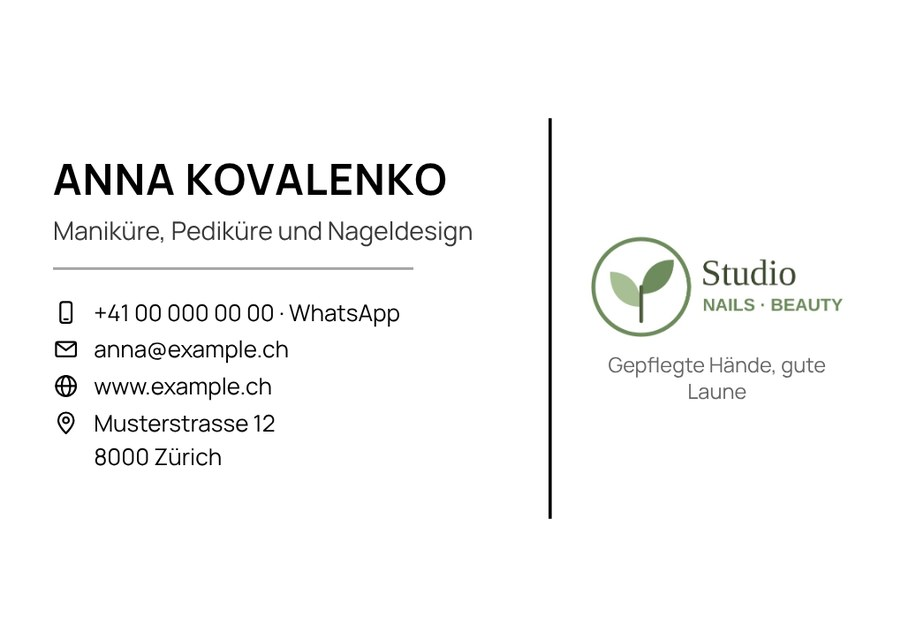
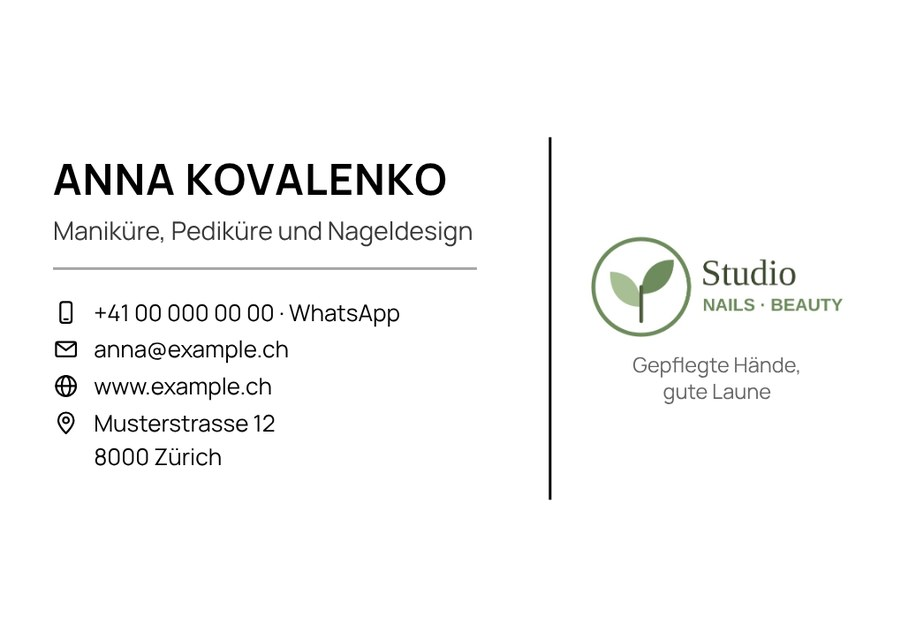
Визитка для печати: доработка вида — ровные переносы, линии, QR и слоган с длинными контактами, оборот в том же виде
Claude-Session: https://claude.ai/code/session_01BC59S8ubwgnF5GR56thysM

diff --git a/instrumenty/vizitka/index.html b/instrumenty/vizitka/index.html
@@ -386,13 +386,14 @@ const perSheet = d => { const [w, h] = dims(d); return Math.floor(190 / w) * Mat
 /* ---------- текст: замер и перенос (Manrope или Forum), с разрядкой ---------- */
 const mc = document.createElement('canvas').getContext('2d');
 function tw(s, fn, size, cs){ s = String(s); mc.font = fn === 'f' ? `400 ${size}px Forum` : `${fn === 'b' ? 700 : 400} ${size}px Manrope`; return mc.measureText(s).width * PT + (cs ? cs * Math.max(0, [...s].length - 1) : 0); }
-/* перенос по пробелам и после дефиса (длинная двойная фамилия: «Konstantinopolskaya-Wiederkehr») */
+/* перенос по пробелам; после дефиса — только если слово целиком не помещается (длинная двойная фамилия: «Konstantinopolskaya-Wiederkehr»), «по-украински» не рвём */
 function wrap(s, fn, size, w, max, cs){
-  const toks = []; String(s || '').split(/\s+/).filter(Boolean).forEach(wd => wd.replace(/-(?=[^-])/g, '-\u0001').split('\u0001').forEach((t, i) => toks.push([t, i === 0])));
+  const toks = []; String(s || '').split(/\s+/).filter(Boolean).forEach(wd => (tw(wd, fn, size, cs) <= w ? [wd] : wd.replace(/-(?=[^-])/g, '-\u0001').split('\u0001')).forEach((t, i) => toks.push([t, i === 0])));
   const out = []; let line = '';
   toks.forEach(([wd, sp]) => { const t = line ? line + (sp ? ' ' : '') + wd : wd; if (tw(t, fn, size, cs) <= w || !line) line = t; else { out.push(line); line = wd; } });
   if (line) out.push(line);
-  if (max && out.length > max) { const rest = out.slice(max - 1).join(' '); out.length = max - 1; let r = rest; while (r.length > 1 && tw(r + '…', fn, size, cs) > w) r = r.slice(0, -1); out.push(r.trim() + '…'); }
+  for (let i = 0; i < out.length; i++) out[i] = out[i].replace(/\s+[·|]$/, '').replace(/^[·|]\s+/, '');   // разделитель «·» не висит в конце или начале строки
+  if (max && out.length > max) { const rest = out.slice(max - 1).reduce((a, l) => a ? a + (/-$/.test(a) ? '' : ' ') + l : l, ''); out.length = max - 1; let r = rest; while (r.length > 1 && tw(r + '…', fn, size, cs) > w) r = r.slice(0, -1); out.push(r.trim() + '…'); }
   return out;
 }
 /* текст на визитку; разрядку движок рисует только от левого края, поэтому центр и правый край считаем сами */
@@ -405,11 +406,16 @@ function text(P, s, o){
   let sz = base, lines = [str];
   while (true) { lines = tw(str, fn, sz, cs(sz)) <= o.w ? [str] : wrap(str, fn, sz, o.w, 0, cs(sz)); if ((lines.length <= maxL && lines.every(l => tw(l, fn, sz, cs(sz)) <= o.w)) || sz <= min) break; sz -= 0.25; }
   if (lines.length > maxL) lines = wrap(str, fn, sz, o.w, maxL, cs(sz));
+  /* ровные строки: при переносе строки примерно одной длины (как text-wrap: balance), без одинокого слова на второй строке */
+  else if (lines.length > 1 && o.balance !== false) {
+    const n = lines.length, fitW = ww => { const L2 = wrap(str, fn, sz, ww, 0, cs(sz)); return L2.length <= n && L2.every(l => tw(l, fn, sz, cs(sz)) <= ww + 0.01) ? L2 : null; };
+    let lo = 0, hi = o.w; for (let it = 0; it < 12; it++) { const mid = (lo + hi) / 2, r = fitW(mid); if (r) { hi = mid; lines = r; } else lo = mid; }
+  }
   if (o.draw && lines.some(l => tw(l, fn, sz, cs(sz)) > o.w + 0.2)) P.wOver = true;   // слово не помещается даже мелко — покажем предупреждение
   const ax = o.align === 'center' ? o.x + o.w / 2 : o.align === 'right' ? o.x + o.w : o.x;
   let y = o.y + sz * PT * 0.76;
   lines.forEach((l, i) => { if (o.draw) T(P, l, ax, y, sz, fn, o.color || INK, o.align, cs(sz)); if (i < lines.length - 1) y += sz * PT * (o.lh || 1.18); });
-  o.out = {size: sz, w: Math.max(...lines.map(l => tw(l, fn, sz, cs(sz)))), base: y};
+  o.out = {size: sz, w: Math.max(...lines.map(l => tw(l, fn, sz, cs(sz)))), lastW: tw(lines[lines.length - 1], fn, sz, cs(sz)), base: y};
   return y + sz * PT * 0.3;
 }
 
@@ -418,7 +424,7 @@ const clean = s => String(s == null ? '' : s).trim();
 const handle = s => clean(s).replace(/^https?:\/\/(www\.)?(instagram\.com|t\.me|telegram\.me)\//i, '').replace(/^@+/, '').replace(/[/?#].*$/, '');
 const site = s => clean(s).replace(/^https?:\/\//i, '').replace(/\/+$/, '');
 const hfn = d => d.font === 'sans' ? 'b' : 'f';
-function nameOf(d, P){ const n = clean(d.f.name); return n ? {s: n, c: INK} : {s: P.preview ? 'Имя Фамилия' : '', c: GHOST}; }
+function nameOf(d, P){ const n = clean(d.f.name); return n ? {s: n, c: INK} : {s: P.preview && !d.noGhost ? 'Имя Фамилия' : '', c: GHOST}; }
 /* контакты строками: {k — вид, v — строки}; без подписей Telegram пишем ссылкой, чтобы его не спутать с Instagram */
 function rows(d, st){
   const f = d.f, out = [];
@@ -486,7 +492,7 @@ function cblock(P, d, o){
   const L = LBL[d.lbl] || LBL.de;
   const geo = sz => {
     const em = sz * PT, lh = em * 1.45, ic = st === 'circle' ? Math.max(3.3, em * 1.75) : st === 'icon' ? em * 1.12 : 0;
-    const lead = ic ? ic + (st === 'circle' ? 1.7 : 1.4) : st === 'text' ? Math.max(0, ...R.map(r => r.k !== 'addr' ? tw(L[r.k], 'r', sz * 0.88) : 0)) + 2.2 : 0;
+    const lead = ic ? ic + (st === 'circle' ? 1.7 : 1.4) : st === 'text' ? Math.max(0, ...R.map(r => tw(L[r.k], 'r', sz * 0.88))) + 2.2 : 0;
     const vw = Math.max(...R.map(r => Math.max(...r.v.map(s => tw(s, 'r', sz)))));
     const rh = R.map(r => st === 'circle' ? Math.max(ic + 1.3, r.v.length * lh + 0.5) : r.v.length * lh + (st === 'icon' ? 0.3 : 0));
     return {em, lh, ic, lead, w: lead + vw, rh, h: rh.reduce((a, b) => a + b, 0)};
@@ -495,13 +501,13 @@ function cblock(P, d, o){
   while (sz > min && (G.w > o.w || (o.maxH && G.h > o.maxH))) { sz -= 0.2; G = geo(sz); }
   if (!o.draw) return {h: G.h, w: G.w};
   if (G.w > o.w + 0.2) P.wOver = true;
-  const bx = Math.max(o.x, o.align === 'right' ? o.x + o.w - G.w : o.align === 'group' ? o.x + (o.w - G.w) / 2 : o.x);
+  const bx = Math.max(o.x, o.align === 'right' || o.align === 'rblock' ? o.x + o.w - G.w : o.align === 'group' ? o.x + (o.w - G.w) / 2 : o.x);
   let y = o.y;
   R.forEach((r, i) => {
     const rh = G.rh[i], top = y + (rh - r.v.length * G.lh) / 2, cy = st === 'circle' ? y + rh / 2 : top + G.lh / 2;
     if (st === 'circle') { const rr = G.ic / 2, s2 = G.ic * 0.6; P.circle(bx + rr, cy, rr, INK); icon(P, r.k, bx + rr - s2 / 2, cy - s2 / 2, s2, '#FFFFFF'); }
     else if (st === 'icon') icon(P, r.k, bx, cy - G.ic / 2, G.ic, INK);
-    else if (st === 'text' && r.k !== 'addr') T(P, L[r.k], bx, top + G.lh / 2 + 0.36 * G.em, sz * 0.88, 'r', SOFT);
+    else if (st === 'text') T(P, L[r.k], bx, top + G.lh / 2 + 0.36 * G.em, sz * 0.88, 'r', SOFT);
     r.v.forEach((s, j) => {
       const by = top + j * G.lh + G.lh / 2 + 0.36 * G.em;
       if (st === 'none' && o.align === 'right') T(P, s, o.x + o.w, by, sz, 'r', o.col || INK, 'right');
@@ -532,12 +538,13 @@ function brand(P, d, o){
 /* блок человека: имя, чем занимаешься, услуги, языки, тонкая линия, контакты. o {x, y, w, k, draw, align: 'left' | 'group', round, rule, roleBold} → высота */
 function person(P, d, o){
   const fn = hfn(d), nm = nameOf(d, P), al = o.align === 'group' ? 'center' : 'left', base = {x: o.x, w: o.w, k: o.k, draw: o.draw, align: al};
-  let y = o.y;
-  if (nm.s) y = text(P, nm.s, Object.assign({}, base, {y, size: fn === 'f' ? 15 : 11.5, fn, color: nm.c, upper: fn === 'b', csEm: fn === 'b' ? 0.02 : 0, lines: 2, lh: 1.05}));
-  if (clean(d.f.role)) y = text(P, d.f.role, Object.assign({}, base, {y: y + 1.2 * o.k, size: 6.8, fn: o.roleBold ? 'b' : 'r', color: o.roleBold ? INK : MID, lines: 2, lh: 1.25, min: 5.2}));
+  let y = o.y, wMax = 0;
+  const put2 = (s2, oo) => { y = text(P, s2, oo); if (oo.out) wMax = Math.max(wMax, oo.out.w); };
+  if (nm.s) put2(nm.s, Object.assign({}, base, {y, size: fn === 'f' ? 15 : 11.5, fn, color: nm.c, upper: fn === 'b', csEm: fn === 'b' ? 0.02 : 0, lines: 3, lh: 1.05}));
+  if (clean(d.f.role)) put2(d.f.role, Object.assign({}, base, {y: y + 1.2 * o.k, size: 6.8, fn: o.roleBold ? 'b' : 'r', color: o.roleBold ? INK : MID, lines: 2, lh: 1.25, min: 5.2}));
   if (clean(d.f.serv)) y = text(P, d.f.serv, Object.assign({}, base, {y: y + 0.9 * o.k, size: 5.8, color: SOFT, lines: 2, lh: 1.25, min: 4.8}));
   if (langLine(d)) y = text(P, langLine(d), Object.assign({}, base, {y: y + 0.9 * o.k, size: 5.5, color: SOFT, lines: 1, min: 4.6}));
-  if (o.rule) { y += 2 * o.k; if (o.draw) { if (al === 'center') P.line(o.x + o.w / 2 - 5, y, o.x + o.w / 2 + 5, y, RULE, 0.25); else P.line(o.x, y, o.x + Math.min(o.w, 34), y, RULE, 0.25); } y += 2.4 * o.k; } else y += 2.8 * o.k;
+  if (o.rule) { y += 2 * o.k; if (o.draw) { if (al === 'center') P.line(o.x + o.w / 2 - 5, y, o.x + o.w / 2 + 5, y, RULE, 0.25); else P.line(o.x, y, o.x + Math.min(o.w, Math.max(wMax, 12)), y, RULE, 0.25); } y += 2.4 * o.k; } else y += 2.8 * o.k;   // линия длиной с имя
   const c = {x: o.x, y, w: o.w, k: o.k, style: cst(d, o.round), align: o.align === 'group' ? 'group' : 'left'};
   const ch = cblock(P, d, Object.assign({}, c, {draw: false})).h; if (ch && o.draw) cblock(P, d, Object.assign({}, c, {draw: true}));
   return (ch ? y + ch : y - 2.6 * o.k) - o.y;
@@ -552,7 +559,7 @@ function tLine(P, d, X, Y, W, H, k, dr){
     const Lw = W * 0.58, xd = X + Lw + 3.4, Rx = xd + 3.4, Rw = X + W - Rx, q = url ? Math.min(Rw * 0.66, H * 0.44) : 0;
     const pb = {x: X, w: Lw, k, rule: true}, bb = {cx: Rx + Rw / 2, w: Rw, h: H * (q ? 0.34 : 0.6), k, tag: true};
     const ph = person(P, d, Object.assign({y: 0, draw: false}, pb)), bh = brand(P, d, Object.assign({y: 0, draw: false}, bb)), rh = bh + (q ? (bh ? 3.2 : 0) + q : 0);
-    if (dr) { person(P, d, Object.assign({y: vcenter(Y, H, ph), draw: true}, pb)); const ry = vcenter(Y, H, rh); brand(P, d, Object.assign({y: ry, draw: true}, bb)); if (q) qrDraw(P, url, Rx + (Rw - q) / 2, ry + rh - q, q); if (rh) P.line(xd, Y + H * 0.08, xd, Y + H * 0.92, INK, 0.3); }
+    if (dr) { person(P, d, Object.assign({y: vcenter(Y, H, ph), draw: true}, pb)); const ry = vcenter(Y, H, rh); brand(P, d, Object.assign({y: ry, draw: true}, bb)); if (q) qrDraw(P, url, Rx + (Rw - q) / 2, ry + rh - q, q); if (rh) P.line(xd, Y + H * 0.12, xd, Y + H * 0.88, INK, 0.25); }
     return ph <= H && rh <= H;
   }
   const q = url ? Math.min(W * 0.4, H * 0.22) : 0, bb = {cx: X + W / 2, w: W * 0.7, h: H * 0.2, k, tag: true}, pb = {x: X, w: W, k, rule: false, align: 'group'};
@@ -594,35 +601,41 @@ function tQr(P, d, X, Y, W, H, k, dr){
   const url = frontQr(d, P), lg = LG(), wide = isWide(W, H);
   const q = url ? (wide ? Math.min(H * 0.4, 17) : Math.min(W * 0.36, 15)) : 0, lb = !q && lg ? logoBox(lg, wide ? 22 : W * 0.36, wide ? H * 0.3 : 11) : null;
   const cw = q || (lb ? lb.w : 0), ch = q || (lb ? lb.h : 0), nw = wide ? W - (cw ? cw + 4 : 0) : W;
-  const go = draw => {
-    let y = wide ? Y : Y + (ch ? ch + 3.5 * k : 0);
-    if (draw) { if (q) qrDraw(P, url, wide ? X + W - q : X, Y, q); else if (lb) P.img(logoData(d, lg), wide ? X + W - lb.w : X, Y, lb.w, lb.h); }
+  const go = (draw, off) => {
+    const Y0 = Y + off;
+    let y = wide ? Y0 : Y0 + (ch ? ch + 3.5 * k : 0);
+    if (draw) { if (q) qrDraw(P, url, wide ? X + W - q : X, Y0, q); else if (lb) P.img(logoData(d, lg), wide ? X + W - lb.w : X, Y0, lb.w, lb.h); }
     y = splitName(P, d, {x: X, y, w: nw, k, draw});
     const role = clean(d.f.role);
-    if (role) { const o = {x: X, y: y + 1.4 * k, w: nw - 8, k, draw, size: 5.6, color: MID, upper: true, csEm: 0.12, lines: 2, lh: 1.3}; y = text(P, role, o); if (draw && o.out.w + 3 < nw - 2) { const ly = o.out.base - o.out.size * PT * 0.3; P.line(X + o.out.w + 2.4, ly, X + nw - 1, ly, MID, 0.25); } }
+    if (role) { const o = {x: X, y: y + 1.4 * k, w: nw - 8, k, draw, size: 5.6, color: MID, upper: true, csEm: 0.12, lines: 2, lh: 1.3}; y = text(P, role, o); if (draw && o.out.lastW + 7 < nw) { const ly = o.out.base - o.out.size * PT * 0.3; P.line(X + o.out.lastW + 2.4, ly, X + nw - 1, ly, MID, 0.25); } }   // линия — после последней строки
+    if (clean(d.f.note)) y = text(P, d.f.note, {x: X, y: y + 1.2 * k, w: nw, k, draw, size: 5.8, color: MID, lines: 2, lh: 1.3, min: 4.8});
     if (langLine(d)) y = text(P, langLine(d), {x: X, y: y + 1 * k, w: nw, k, draw, size: 5.4, color: SOFT, min: 4.6});
-    y = (wide ? Math.max(y, Y + ch) : y) + 2.8 * k;
-    if (draw) P.line(X, y, X + W, y, INK, 0.3);
+    const st = cst(d);
+    if (!rows(d, st).length) return Math.max(y, wide ? Y0 + ch : y) - Y0;   // без контактов (обратная сторона) — без линии
+    y = (wide ? Math.max(y, Y0 + ch) : y) + 2.8 * k;
+    if (draw) P.line(X, y, X + W, y, INK, 0.25);
     y += 2.8 * k;
-    const st = cst(d), right = ['web', 'ig', 'tg'], hasR = wide && rows(d, st).some(r => right.includes(r.k)), hasL = rows(d, st).some(r => !right.includes(r.k));
+    const right = ['web', 'ig', 'tg'], hasL = rows(d, st).some(r => !right.includes(r.k));
+    const hasR = wide && rows(d, st).some(r => right.includes(r.k)) && cblock(P, d, {x: 0, y: 0, w: W * 0.42, k, style: st, align: 'right', only: right, draw: false}).w <= W * 0.42 + 0.2;   // длинный сайт справа не помещается — все контакты слева
     const cl = {x: X, y, w: hasR ? W * 0.56 : W, k, style: st, skip: hasR ? right : null}, cr = {x: X + W * 0.58, w: W * 0.42, k, style: st, align: 'right', only: right};
     const hl = hasL || !hasR ? cblock(P, d, Object.assign({}, cl, {draw: false})).h : 0, hr = hasR ? cblock(P, d, Object.assign({}, cr, {y: 0, draw: false})).h : 0;
-    if (draw) { if (hl) cblock(P, d, Object.assign({}, cl, {y: wide ? y : Math.max(y, Y + H - hl), draw: true})); if (hr) cblock(P, d, Object.assign({}, cr, {y: Y + H - hr, draw: true})); }   // на вертикальной визитке контакты внизу
-    return Math.max(y + hl, hr ? y + hr : 0) - Y;
+    if (draw) { if (hl) cblock(P, d, Object.assign({}, cl, {y, draw: true})); if (hr) cblock(P, d, Object.assign({}, cr, {y: Y + H - hr, draw: true})); }
+    return Math.max(y + hl, hr ? y + hr : 0) - Y0;
   };
-  const h = go(false); if (dr) go(true);
+  /* вертикальная визитка: весь блок по центру высоты, без пустоты посередине */
+  const h = go(false, 0); if (dr) go(true, wide && rows(d, cst(d)).length ? 0 : Math.max(0, (H - h) / 2));
   return h <= H + 0.2;
 }
 /* 4. Крупный слоган: большая фраза сверху, внизу слева ты, справа «записаться» и контакты */
 function tSlogan(P, d, X, Y, W, H, k, dr){
   const f = d.f, fn = hfn(d), lg = LG(), url = frontQr(d, P), wide = isWide(W, H);
-  const sl = clean(f.tag) || clean(f.firm) || clean(f.role) || (P.preview ? 'Твоя главная фраза' : '');
+  const sl = clean(f.tag) || clean(f.firm) || clean(f.role) || (P.preview && !d.noGhost ? 'Твоя главная фраза' : '');
   const L = d.lbl === 'none' ? null : (LBL[d.lbl] || LBL.de);
   const cq = url ? (wide ? Math.min(H * 0.34, 14) : Math.min(W * 0.34, 13)) : 0, lb = !cq && lg ? logoBox(lg, wide ? 20 : W * 0.4, wide ? H * 0.26 : 10) : null;
   const corner = cq ? {w: cq, h: cq} : lb;
   const nm = nameOf(d, P), so = {size: fn === 'f' ? 17 : 13, fn, lines: 3, lh: 1.1, min: 9};
   const leftItems = (x, y, w, draw) => {
-    if (nm.s) y = text(P, nm.s, {x, y, w, k, draw, size: 7.4, fn: 'b', color: nm.c, min: 5.6});
+    if (nm.s) y = text(P, nm.s, {x, y, w, k, draw, size: 7.4, fn: 'b', color: nm.c, min: 5.6, lines: 2, lh: 1.1});
     if (clean(f.role)) y = text(P, f.role, {x, y: y + 0.8 * k, w, k, draw, size: 6.2, color: MID, lines: 2, lh: 1.25, min: 5});
     if (clean(f.serv)) y = text(P, f.serv, {x, y: y + 0.6 * k, w, k, draw, size: 5.8, color: MID, lines: 2, lh: 1.25, min: 4.8});
     if (langLine(d)) y = text(P, langLine(d), {x, y: y + 0.6 * k, w, k, draw, size: 5.4, color: SOFT, min: 4.6});
@@ -637,13 +650,16 @@ function tSlogan(P, d, X, Y, W, H, k, dr){
     return y + 1 * k + h;
   };
   if (wide) {
-    const sw = W - (corner ? corner.w + 4 : 0) - W * 0.06, lw = W * 0.54, rw = W * 0.44;
+    const sw = W - (corner ? corner.w + 4 : 0) - W * 0.06;
     const sh = text(P, sl, Object.assign({x: X, y: Y, w: sw, k, draw: false}, so)) - Y;
-    const lh = leftItems(X, 0, lw, false), rh = rightItems(X + W - rw, 0, rw, false, 'right'), bh = Math.max(lh, rh);
+    const cw = cblock(P, d, {x: 0, y: 0, w: W * 0.44, k, style: cst(d), align: 'right', only: ['tel', 'mail', 'web', 'ig', 'tg'], size: 6, draw: false}).w, side = cw <= W * 0.44 + 0.2;
+    const lw = side ? W * 0.54 : W, rw = side ? W * 0.44 : W, gap = side ? 0 : 3 * k;
+    const lh = leftItems(X, 0, lw, false), rh = rightItems(side ? X + W - rw : X, 0, rw, false, side ? 'right' : 'left'), bh = side ? Math.max(lh, rh) : lh + gap + rh;
     if (dr) {
       if (sl) text(P, sl, Object.assign({x: X, y: Y, w: sw, k, draw: true, color: clean(f.tag) || clean(f.firm) || clean(f.role) ? INK : GHOST}, so));
       if (cq) qrDraw(P, url, X + W - cq, Y, cq); else if (lb) P.img(logoData(d, lg), X + W - lb.w, Y, lb.w, lb.h);
-      leftItems(X, Y + H - lh, lw, true); rightItems(X + W - rw, Y + H - rh, rw, true, 'right');
+      if (side) { leftItems(X, Y + H - lh, lw, true); rightItems(X + W - rw, Y + H - rh, rw, true, 'right'); }
+      else { leftItems(X, Y + H - bh, lw, true); rightItems(X, Y + H - rh, rw, true, 'left'); }   // длинный e-mail или сайт: контакты под именем, во всю ширину
     }
     return Math.max(sh, corner ? corner.h : 0) + 3 * k + bh <= H;
   }
@@ -673,13 +689,13 @@ function tCenter(P, d, X, Y, W, H, k, dr){
     const rs = R(); if (!rs.length) return 0;
     if (st === 'none') return cblock(P, d, {x: cx - w / 2, y, w, k, draw, style: 'none', align: 'center', size: 6}).h;
     let sz = 6 * k, em, lh, lw, vw;
-    const geo = () => { em = sz * PT; lh = em * 1.45; lw = Math.max(...rs.map(r => st === 'icon' ? em * 1.12 : r.k === 'addr' ? 0 : tw(L[r.k], 'r', sz * 0.9))); vw = Math.max(...rs.map(r => Math.max(...r.v.map(s => tw(s, 'r', sz))))); };
+    const geo = () => { em = sz * PT; lh = em * 1.45; lw = Math.max(...rs.map(r => st === 'icon' ? em * 1.12 : tw(L[r.k], 'r', sz * 0.9))); vw = Math.max(...rs.map(r => Math.max(...r.v.map(s => tw(s, 'r', sz))))); };
     geo(); while (sz > 4.9 && lw + vw + 5 > w) { sz -= 0.2; geo(); }
     const h = rs.reduce((a, r) => a + r.v.length * lh, 0); if (!draw) return h;
     const xr = cx - (lw + vw + 5) / 2 + lw + 2.5; let yy = y;
     P.line(xr, y + lh * 0.12, xr, y + h - lh * 0.12, INK, 0.25);
     rs.forEach(r => { const c = yy + lh / 2;
-      if (st === 'icon') icon(P, r.k, xr - 2.3 - em * 1.12, c - em * 0.56, em * 1.12, INK); else if (r.k !== 'addr') T(P, L[r.k], xr - 2.3, c + 0.36 * em, sz * 0.9, 'r', SOFT, 'right');
+      if (st === 'icon') icon(P, r.k, xr - 2.3 - em * 1.12, c - em * 0.56, em * 1.12, INK); else T(P, L[r.k], xr - 2.3, c + 0.36 * em, sz * 0.9, 'r', SOFT, 'right');
       r.v.forEach((s, j) => T(P, s, xr + 2.3, yy + j * lh + lh / 2 + 0.36 * em, sz, 'r', INK)); yy += r.v.length * lh; });
     return h;
   };
@@ -701,14 +717,19 @@ function tOnlyQr(P, d, X, Y, W, H, k, dr){
   const f = d.f, url = frontQr(d, P), lg = LG(), wide = isWide(W, H), nm = nameOf(d, P);
   const main = clean(f.firm) || nm.s, lines = [[main, 'b', clean(f.firm) ? INK : nm.c]];
   if (clean(f.firm) && clean(f.name)) lines.push([clean(f.name), 'r', MID]);
+  if (clean(f.role) && d.noGhost) lines.push([clean(f.role), 'r', MID, 2]);
+  if (clean(f.note)) lines.push([clean(f.note), 'r', MID, 2]);
   [site(f.web), clean(f.email), clean(f.phone)].filter(Boolean).forEach(s => lines.push([s, 'r', MID]));
   const ls = lines.filter(l => l[0]).slice(0, 4);
   /* строки заглавными вразрядку; длинный e-mail или сайт, который так не помещается, — обычными буквами */
-  const block = (x, y, w, draw, align) => { ls.forEach((l, i) => { const sz = (i ? 5.4 : 6), up = tw(l[0].toUpperCase(), l[1], 4.4 * Math.min(1, k + 0.15), 0.14 * 4.4 * PT) <= w; y = text(P, l[0], {x, y: y + (i ? 1.1 * k : 0), w, k, draw, size: sz, fn: l[1], color: l[2], align, upper: up, csEm: up ? 0.14 : 0, min: 4.4}); }); return y; };
+  let bw = 0;
+  const block = (x, y, w, draw, align) => { bw = 0; ls.forEach((l, i) => { const sz = (i ? 5.4 : 6), up = tw(l[0].toUpperCase(), l[1], 4.4 * Math.min(1, k + 0.15), 0.14 * 4.4 * PT) <= w; const o = {x, y: y + (i ? 1.1 * k : 0), w, k, draw, size: sz, fn: l[1], color: l[2], align, upper: up, csEm: up ? 0.14 : 0, min: 4.4, lines: l[3] || 1, lh: 1.3}; y = text(P, l[0], o); if (o.out) bw = Math.max(bw, o.out.w); }); return y; };
   const slot = (x, y, s, draw) => { if (!draw) return; if (url) qrDraw(P, url, x, y, s); else if (lg) { const lb = logoBox(lg, s, s); P.img(logoData(d, lg), x + (s - lb.w) / 2, y + (s - lb.h) / 2, lb.w, lb.h); } else { const ini = initials(d); if (ini) { P.circle(x + s / 2, y + s / 2, s / 2, null, INK, 0.25); T(P, ini, x + s / 2, y + s / 2 + s * 0.17, s * 1.2, 'f', INK, 'center'); } } };
   if (wide) {
-    const s = Math.min(H * 0.66, W * 0.3) * Math.min(1, k + 0.1), tx = X + s + 6, tw2 = W - s - 6, bh = block(tx, 0, tw2, false, 'left');
-    if (dr) { slot(X + 1, vcenter(Y, H, s), s, true); block(tx, vcenter(Y, H, bh), tw2, true, 'left'); }
+    const s = Math.min(H * 0.66, W * 0.3) * Math.min(1, k + 0.1), tw2 = W - s - 6, bh = block(X + s + 6, 0, tw2, false, 'left');
+    /* QR-код и строки — одной группой по центру карточки */
+    const sh = Math.max(0, (W - (s + 6 + bw)) / 2 - 1), tx = X + s + 6 + sh;
+    if (dr) { slot(X + sh, vcenter(Y, H, s), s, true); block(tx, vcenter(Y, H, bh), tw2, true, 'left'); }
     return bh <= H;
   }
   const s = Math.min(W * 0.6, H * 0.46) * Math.min(1, k + 0.1), bh = block(X, 0, W, false, 'center'), h = s + 5 * k + bh;
@@ -723,11 +744,12 @@ function tMini(P, d, X, Y, W, H, k, dr){
     if (nm.s) y = text(P, nm.s, {x, y, w, k, draw, size: fn === 'f' ? 13 : 9.6, fn, color: nm.c, upper: true, csEm: 0.24, lines: 2, lh: 1.35, min: 6.4});
     y += 2.2 * k; if (draw) P.line(x, y, x + 2.6, y, INK, 0.35); y += 2.4 * k;
     if (clean(f.role)) y = text(P, f.role, {x, y, w, k, draw, size: 5.8, color: MID, lines: 2, lh: 1.3, min: 4.8});
+    if (clean(f.note)) y = text(P, f.note, {x, y: y + 0.8 * k, w, k, draw, size: 5.4, color: MID, lines: 2, lh: 1.3, min: 4.6});
     if (langLine(d)) y = text(P, langLine(d), {x, y: y + 0.6 * k, w, k, draw, size: 5.2, color: SOFT, min: 4.4});
     return y;
   };
   const st = cst(d), cx = wide ? X + W * 0.46 : X, cw = wide ? W * 0.54 : W - (q ? q + 3 : 0);
-  const c = {x: cx, w: cw, k, style: st, size: 5.6, col: MID};
+  const c = {x: cx, w: cw, k, style: st, size: 5.6, col: MID, align: wide ? 'rblock' : 'left'};
   const ch = cblock(P, d, Object.assign({}, c, {y: 0, draw: false})).h;
   const ty = wide ? Y + H * 0.14 : Y + (lb ? lb.h + 4 * k : 0), tw2 = wide ? W - (lb ? lb.w + 4 : 0) : W;
   const tb = top(X + (wide ? W * 0.02 : 0), ty, tw2, false);
@@ -745,7 +767,22 @@ function front(P, d, X, Y){
   for (let i = 0; i <= 5; i++) { const k = 1 - i * 0.05; if (f(P, d, x0, y0, W, H, k, false) || i === 5) { P.wOver = false; f(P, d, x0, y0, W, H, k, true); return !f(P, d, x0, y0, W, H, k, false) || P.wOver; } }
   return false;
 }
+/* обратная сторона в том же виде, что и лицевая: имя и чем занимаешься по-русски или по-украински, строка, QR-код, логотип (13.10.2026, «как сделать красивее») */
+function backData(d){
+  const b = d.back, L = d.layout, line = clean(b.line), role = clean(b.role), url = d.qr.where === 'back' ? qrLink(d) : '';
+  const f = {name: clean(b.name), role, firm: '', tag: '', serv: '', note: '', phone: '', wa: false, email: '', web: '', ig: '', tg: '', street: '', city: '', langs: []};
+  if (L === 'slogan' || L === 'center') { f.tag = role; f.role = line; }   // крупно или под именем — чем занимаешься, ниже — строка
+  else if (L === 'line' || L === 'dots') f.serv = line;
+  else f.note = line;
+  return Object.assign({}, d, {f, noGhost: true, card: null, qr: url ? {where: 'front', to: 'url', url} : {where: 'none', to: 'url', url: ''}});
+}
 function back(P, d, X, Y){
+  if (!clean(d.back.name) && !clean(d.back.role)) return backSimple(P, d, X, Y);
+  const keep = LGX; if (!d.back.logo) LGX = null;
+  try { return front(P, backData(d), X, Y); } finally { LGX = keep; }
+}
+/* оборот без имени и рода занятий: логотип, строка и QR-код по центру */
+function backSimple(P, d, X, Y){
   const [CW, CH] = dims(d), lg = d.back.logo ? LG() : null, x0 = X + SAFE, y0 = Y + SAFE, W = CW - 2 * SAFE, H = CH - 2 * SAFE, url = d.qr.where === 'back' ? qrLink(d) : '';
   const fn = hfn(d), cx = x0 + W / 2;
   const items = (k, dr, top) => {

diff --git a/_i18n/JOURNAL.md b/_i18n/JOURNAL.md
@@ -163,3 +163,4 @@
 - 13.10.2026, 22:45 — КОПИЯ (ветка `kopiya-vizitka`, на сайт не выложено; Ирина: «Можем мы для сайта свои люди разработать макет визиток… предложить им сайты, где заказать печать… Делай только белые. Проще»): новый инструмент **«Визитка для печати: файл для типографии и лист A4 для дома»** — `instrumenty/vizitka/`. Белая визитка 85 × 55 мм, три вида (Классика, По центру, Логотип слева — без логотипа там инициалы), шрифт имени Forum или Manrope, подписи к контактам DE/FR/IT/EN (по умолчанию по кантону) или без подписей, строка языков, логотип или фото (белые поля обрезаются сами, почти белое → чисто белое, хранится в браузере), обратная сторона по-русски или по-украински, QR-код на лицевой или обратной стороне (сайт, Instagram, карточка в «Своих людях», своя ссылка), поиск карточки по SG-/OR-/UID (только открытые карточки; кириллица — на оборот), ссылка `?n=SG-0014`, пример `?example` (`&layout=`, `&nologo`, `&qr=`). Файлы: «PDF для типографии» (страницы 91 × 61 мм с запасом 3 мм, выбор 0–3 мм, текст не ближе 5 мм к краю, серое и чёрное — только чёрной краской K, все шрифты встроены), «Лист A4 для печати дома» (2 × 5, метки реза, оборот зеркально), PNG сторон. Без водяного знака, без галочки G1 и номера (визитка — документ от своего имени). Список типографий с датой проверки. Движок `assets/shema.js`: свой размер листа `pg.fmt`, шрифт Forum (`font 'f'`, грузится только если нужен), `pg.kBlack`, `pg.pngK`, PNG-картинки, `putOnlyUsedFonts` (в PDF всех инструментов только реально использованные шрифты). `assets/pdffan.js`: веер `vizitka`, картинки веера понимают `PV_BASE`. `_i18n/pages.py`: новая страница без украинской версии не получает переключатель RU/UA и переход на /uk/. Карточка на вкладке «Полезные инструменты», «Все файлы», поиск (RU), «Для специалистов», «Моя ситуация: своё дело», 7 статей (ИП, красота, уборка и кухня, коучинг, преподавание, автосервис, передержка), запись в «Что нового», превью ссылки. Только RU (переводы на паузе).
 - 13.10.2026, 23:30 — КОПИЯ, та же ветка (Ирина прислала 7 образцов: «Вот такие простые дизайны мне больше нравятся. С лого и без, вертикальные, горизонтальные. И размеры разные»): «Визитка для печати» переделана. Вместо трёх видов — **семь** по образцам, выбор миниатюрами с данными человека: «С линией», «Значки в кружках», «QR-код в углу», «Крупный слоган», «Имя по центру», «Только QR-код», «Минимализм»; у каждого свой шрифт и подписи по умолчанию. **Размеры** 85 × 55, 90 × 50, 55 × 55 мм (проверено у WIRmachenDRUCK и в памятке Rohner Spiller 13.10.2026), **положение** горизонтальное или вертикальное (кроме квадрата). «Перед контактами»: свои значки (телефон, конверт, глобус, фотоаппарат, самолётик, точка на карте — нарисованы для «Своих людей»), слова на языке подписей или ничего. Новые поля «Слоган или короткая фраза» и «Услуги одной строкой». Лист A4 считает визитки под размер (85 × 55 — 10, как на листах с перфорацией; 55 × 85 — 9; 55 × 55 — 15), запас на обрез и подписи пересчитываются. Длинные слова и e-mail, которые не помещаются, дают предупреждение; перенос и после дефиса. Движок `assets/shema.js`: операции `path` и `circle` (SVG, PDF через moveTo/curveTo, PNG через Path2D) и разрядка букв (`cs`, в PDF — charSpace со сбросом). Веер — 4 картинки, превью ссылки, тексты страницы, карточка на вкладке инструментов, «Все файлы», поиск (RU), новость. Проверено: 7 видов × 3 размера × 2 положения × 4 набора данных (315 сочетаний), PDF 61 × 91 и 96 × 56 мм со встроенными шрифтами, PNG, 360/390/430/1280 px, «Этикетки», «Налоги», «Устав ферайна», «Пропала кошка» после правки движка.
 - 13.10.2026, 23:40 — ПОПРАВКА на сайт: «Все файлы и инструменты по темам» (RU и UA) на телефоне 360 px уходила вбок на 9 px — тема «Страховки, здоровье и экстренные случаи» не переносилась (общее правило страницы `nav a{white-space:nowrap}`). `.kat-nav a{white-space:normal}` в _i18n/katalog.py и на обеих страницах; проверено на 360, 390, 430 px.
+- 13.10.2026, 23:55 — КОПИЯ, ветка `kopiya-vizitka` (Ирина: «Проверь дизайн, еще раз просмотри где улучшить, как сделать красивее»): «Визитка для печати» доработана по виду. Строки при переносе — примерно одной длины (без одинокого слова на второй строке); «по-украински» не рвётся по дефису (по дефису — только слово, которое целиком не помещается), «·» не остаётся в конце строки. Линия под именем — длиной с имя; вертикальная линия в «С линией» короче и тоньше. «QR-код в углу»: линия после последней строки рода занятий, вертикальная визитка — по центру высоты; длинный сайт, который не помещается справа, уходит к остальным контактам. «Крупный слоган»: длинные e-mail и сайт — под именем во всю ширину, имя до двух строк. «Имя по центру»: подпись «Adresse» у адреса. «Только QR-код»: QR-код и строки одной группой по центру. «Минимализм»: контакты по правому краю, ровно под логотипом. Имя — до трёх строк. **Обратная сторона** теперь в том же виде, что и лицевая (имя, чем занимаешься, строка, QR-код или логотип), а без имени и рода занятий — как раньше, по центру. Веер (1, 4) и превью ссылки пересобраны. Проверено: 315 сочетаний (предупреждение только при переполненных данных в 55 × 55 и 90 × 50), PDF со встроенными шрифтами и разрядкой, 360/390/430/1280 px без ошибок.
